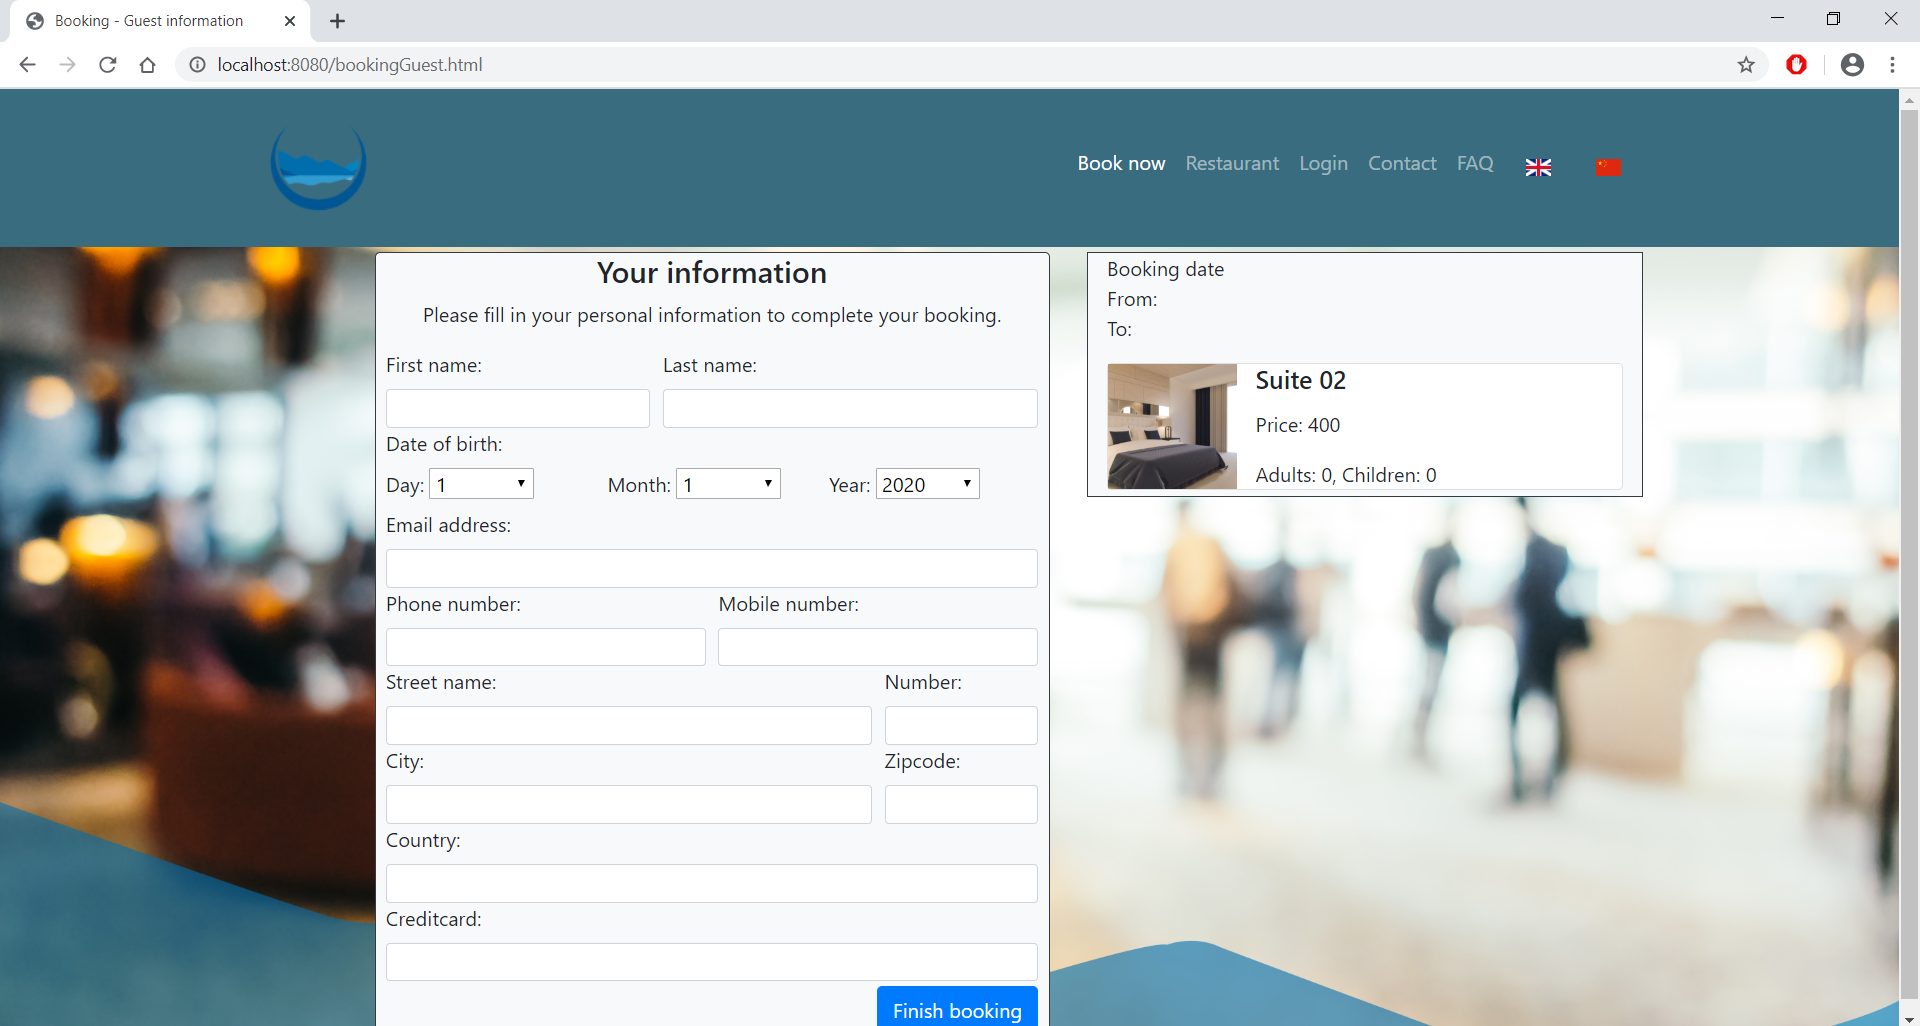
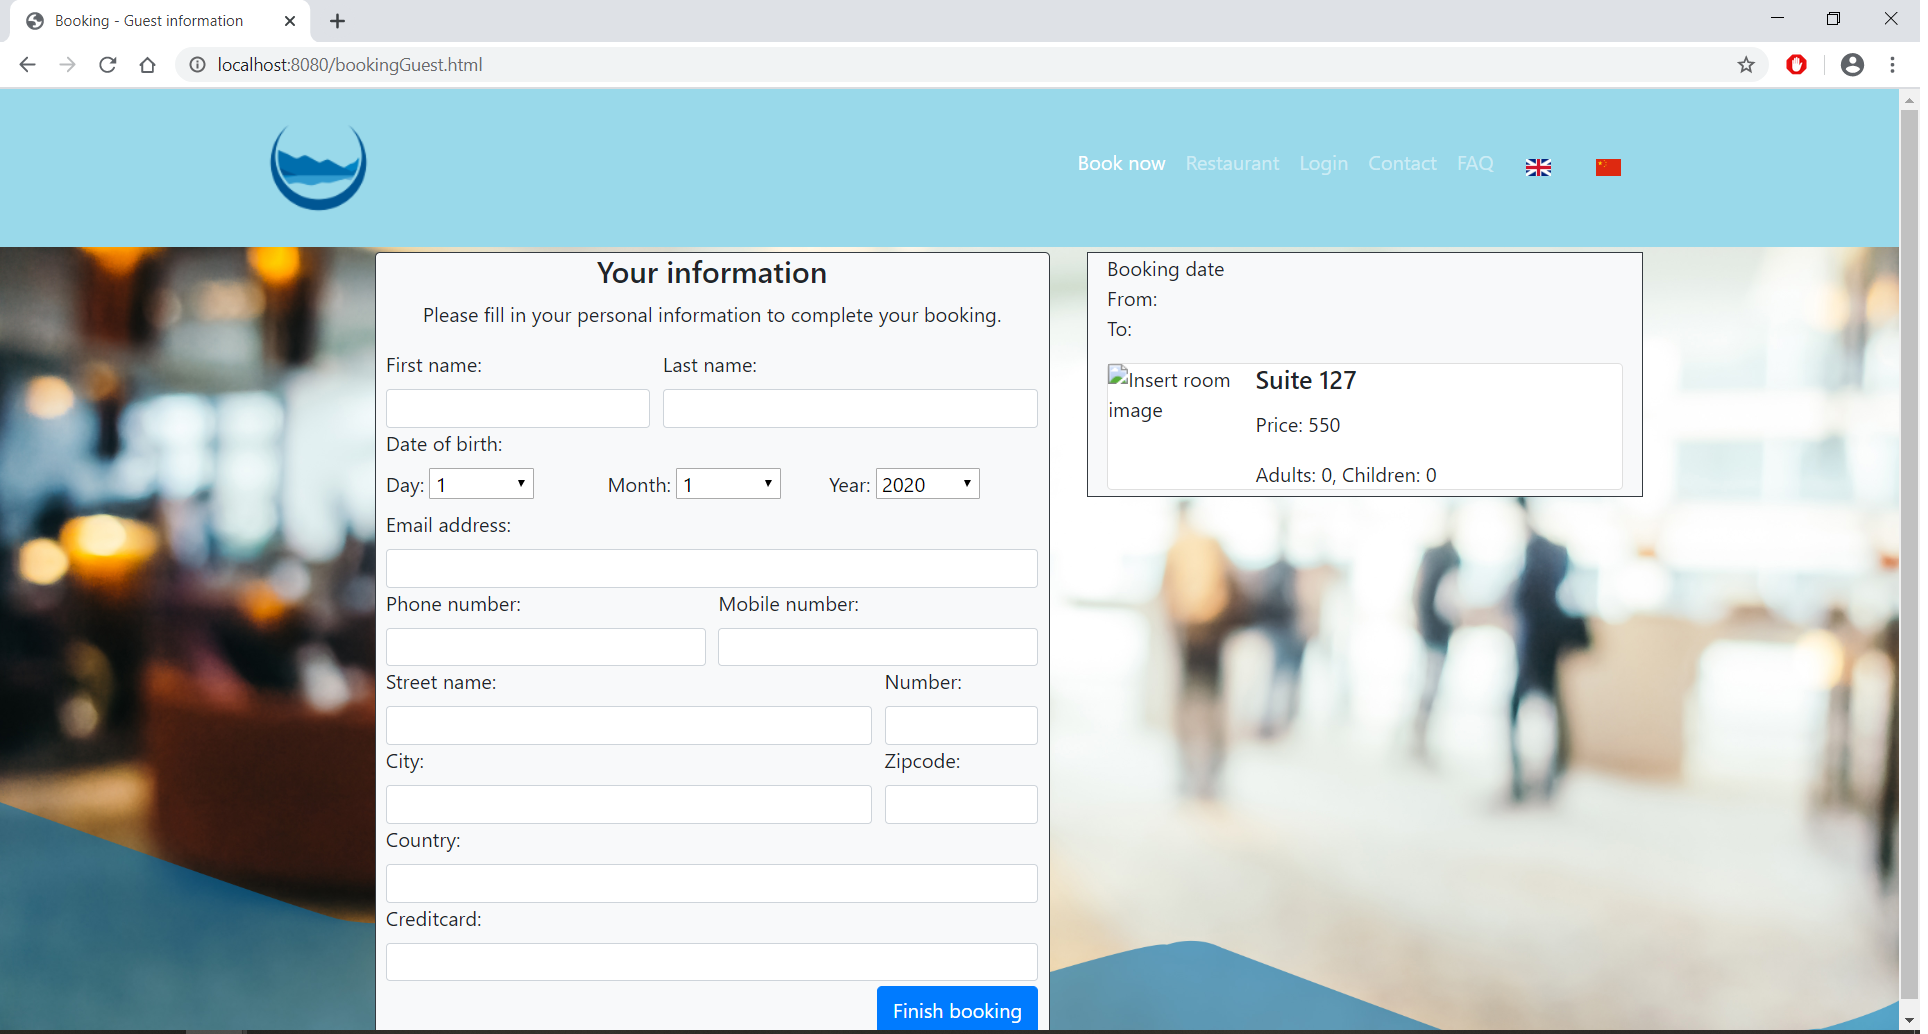
Changed the colors for the Room overview

diff --git a/src/main/resources/static/bookingGuest.html b/src/main/resources/static/bookingGuest.html
@@ -26,7 +26,7 @@
 
 <body class="bg">
 <!-- Navigation -->
-<nav class="navbar navbar-expand-lg navbar-dark sticky-top" style="background-color:#396c7f">
+<nav class="navbar navbar-expand-lg navbar-dark sticky-top" style="background-color:#99d9ea">
     <div class="container">
         <a class="navbar-brand" href="http://localhost:8080/index.html"><img src="images/logo-small.png"></a>
         <button class="navbar-toggler" type="button" data-toggle="collapse" data-target="#navbarResponsive" aria-controls="navbarResponsive" aria-expanded="false" aria-label="Toggle navigation">

diff --git a/src/main/resources/static/css/rooms.css b/src/main/resources/static/css/rooms.css
@@ -6,8 +6,8 @@
     margin-top: 20px;
 
     width: 75%;
-    border: 15px solid #dae3f3;
-    background-color: #dae3f2;
+    border: 10px solid #dae3f3;
+    background-color: #99d9ea;
     padding: 50px;
 
 }
@@ -17,13 +17,12 @@
 }
 
 div.single_room {
-    background-color: #4472c4;
+    background-color: #7092BE;
     text-align: center;
     margin-left: auto;
     margin-right: auto;
     margin-top: 10px;
 
-    border: 15px solid #dae3f3;
 
 
 }
